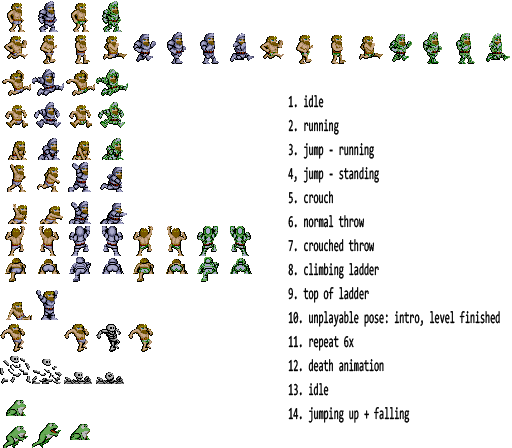
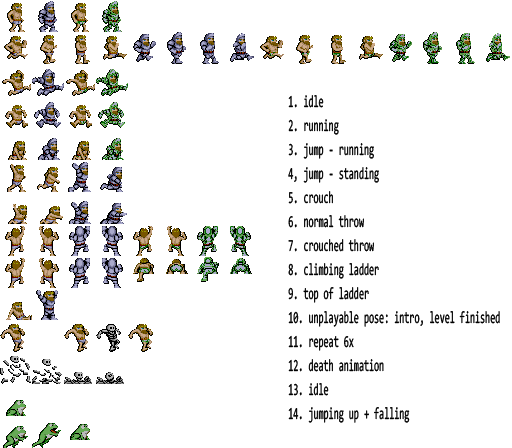
Temp fix climbing glitch

Changed region(s): [[0.0, 0.5625, 0.25, 0.6562]]

diff --git a/Ghosts_n_Goblins/characters/Player.cpp b/Ghosts_n_Goblins/characters/Player.cpp
@@ -489,10 +489,13 @@ void Player::Climb()
         m_Velocity.y = m_VerVelocity;
         m_Climbing = true;
     }
-    else if (m_pGameController->m_pInputManager->IsPressed(Game::Label::I_DOWN))
+    else if (m_OnHill and m_pGameController->m_pInputManager->IsPressed(Game::Label::I_DOWN))
     {
-        m_Velocity.y = -m_VerVelocity;
-        m_Climbing = true;
+         // TOTO: fix
+        // m_Velocity.y = -m_VerVelocity;
+        // m_Climbing = true;
+        m_Velocity.y = 0.0f;
+        m_Climbing = false;
     }
     else
     {
